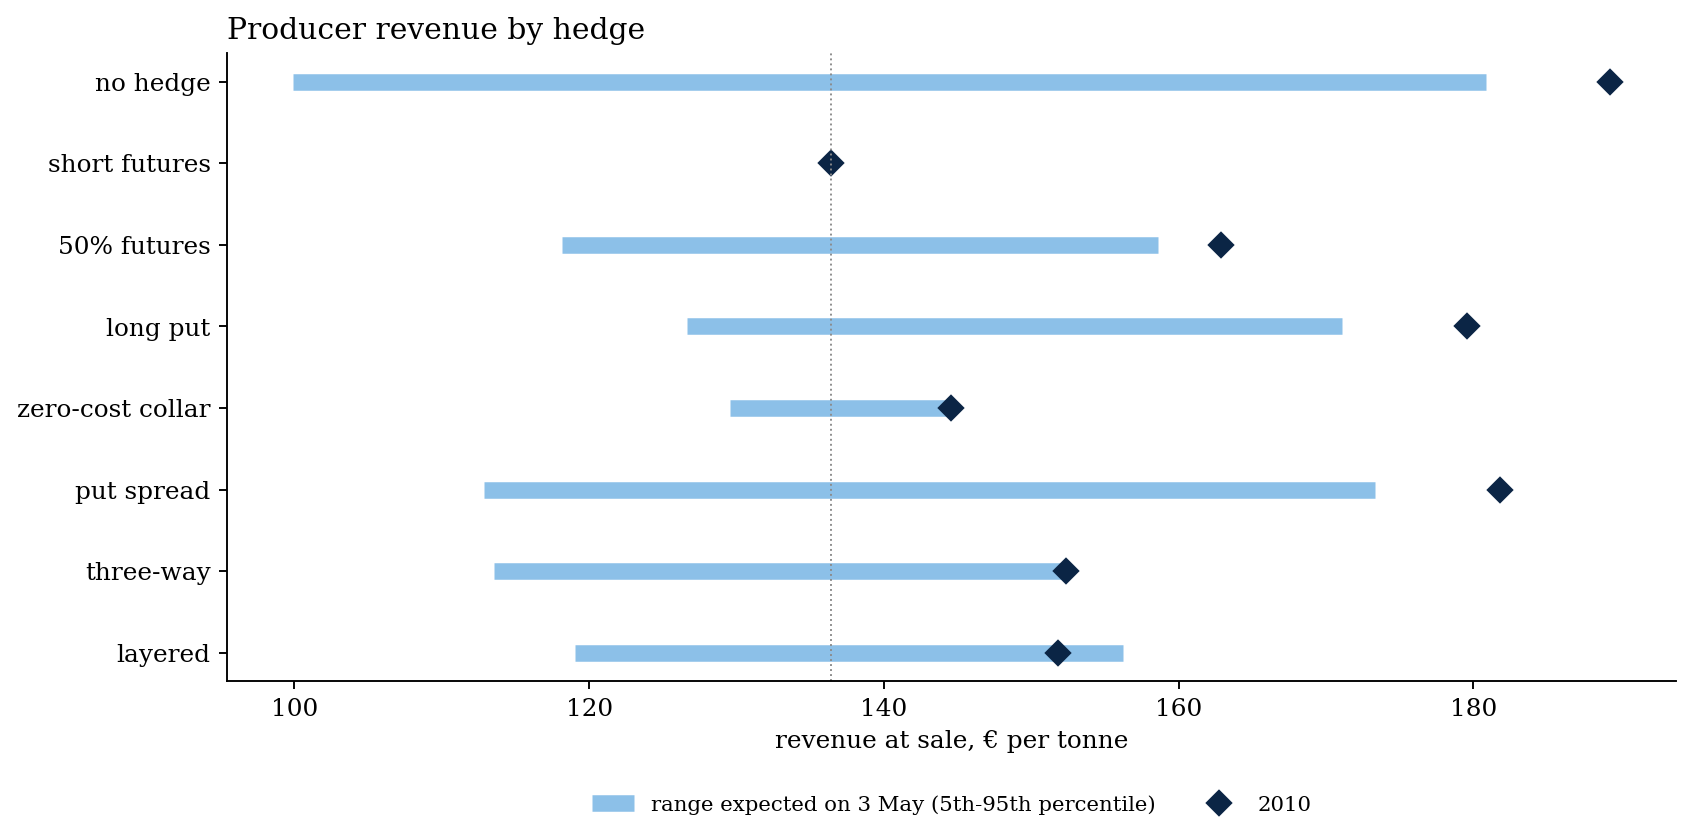
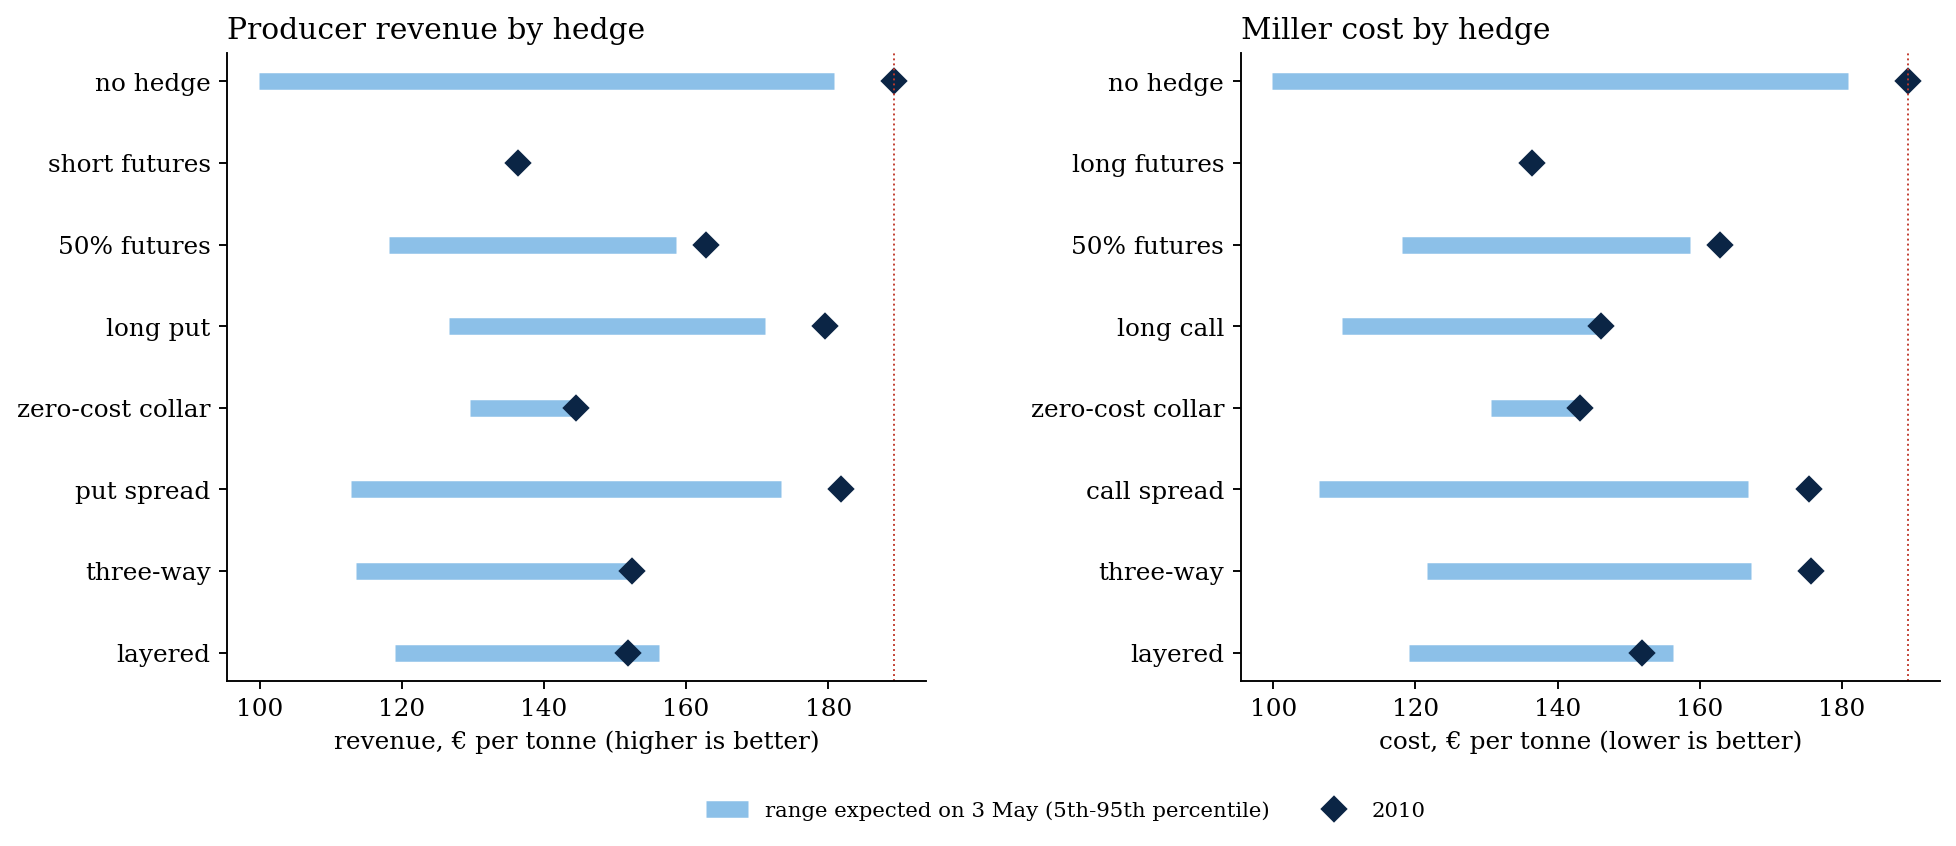
015: the miller's side of the 2010 wheat hedge beside the producer's

diff --git a/015-commodity-option-hedging/make_wheat_figures.py b/015-commodity-option-hedging/make_wheat_figures.py
@@ -1,11 +1,11 @@
 #!/usr/bin/env python3
 #-------- make_wheat_figures.py -----------------------------------------------------
-# Figures for the wheat 2010 producer hedge (wheat_2010.py):
-#   fig5_wheat_2010     CBOT wheat through 2010, with the hedge date, sale date, the
-#                       heatwave and the export ban, and the strikes set on 3 May
-#   fig6_wheat_revenue  revenue per bushel for each hedge: what 2010 gave, against the range
-#                       a producer could have expected on 3 May (5th to 95th percentile)
-#   fig7_wheat_payoffs  revenue at sale against the sale price for each hedge
+# Figures for both sides of the 2010 wheat hedge (wheat_2010.py):
+#   fig5_wheat_2010     wheat in euros per tonne through 2010, the hedge window, the heatwave
+#                       and the export ban, and the dates the layered hedge trades
+#   fig6_wheat_revenue  producer revenue and miller cost per tonne for each hedge: what 2010
+#                       gave, against the range expected on 3 May (5th to 95th percentile)
+#   fig7_wheat_payoffs  producer revenue and miller cost against the wheat price at the end
 #
 #   python make_wheat_figures.py
 
@@ -18,7 +18,7 @@ import matplotlib
 matplotlib.use("Agg")
 import matplotlib.pyplot as plt
 
-from wheat_2010 import EVENTS, LAYERS, SALE, START, revenue
+from wheat_2010 import EVENTS, LAYERS, SALE, START, cost, revenue
 
 HERE = os.path.dirname(os.path.abspath(__file__))
 RES = os.path.join(HERE, "results")
@@ -27,55 +27,58 @@ NAVY, BLUE, LIGHT, RED, GREY = "#0b2545", "#1f6fb2", "#8cc0e8", "#c0392b", "#8a8
 plt.rcParams.update({"font.family": "serif", "font.size": 10.5, "axes.spines.top": False, "axes.spines.right": False})
 
 
+def ranges(ax, real, ex, names, title, xlabel, legend):
+    y = np.arange(len(names))
+    ax.hlines(y, [ex[s]["p5"] for s in names], [ex[s]["p95"] for s in names], color=LIGHT, lw=7,
+              label="range expected on 3 May (5th-95th percentile)")
+    ax.plot([real[s] for s in names], y, "D", color=NAVY, ms=7, label="2010")
+    ax.axvline(real["no hedge"], color=RED, lw=0.8, ls=":")
+    ax.set_yticks(y, names); ax.invert_yaxis()
+    ax.set_xlabel(xlabel); ax.set_title(title, loc="left")
+    if legend:
+        ax.legend(frameon=False, fontsize=9, loc="upper center", bbox_to_anchor=(-0.25, -0.16), ncol=2)
+
+
 def main():
     o = json.load(open(os.path.join(RES, "wheat_2010.json")))
     F = pd.read_csv(os.path.join(RES, "wheat_2010_prices.csv"), index_col=0, parse_dates=True).squeeze()
-    k = o["setup"]; F0 = o["F0"]
+    F0, b = o["F0"], o["buyer"]
 
-    fig, ax = plt.subplots(figsize=(12, 4.8))
+    fig, ax = plt.subplots(figsize=(12, 4.6))
     ax.plot(F.index, F, color=NAVY, lw=1.6)
     ax.axvspan(pd.Timestamp(START), pd.Timestamp(SALE), color=LIGHT, alpha=0.18, lw=0)
     for j, (d, name) in enumerate(EVENTS.items()):
         ax.axvline(pd.Timestamp(d), color=RED, lw=1, ls="--")
         ax.text(pd.Timestamp(d), 224 - 9 * j, name + " ", color=RED, fontsize=9, ha="right")
-    for K, name, c in [(F0, "futures sold / put strike", BLUE), (0.95 * F0, "95% put", LIGHT), (0.85 * F0, "85% put", LIGHT),
-                       (k["Kc_collar"], "collar call", RED), (k["Kc_fence"], "three-way call", RED)]:
-        ax.hlines(K, pd.Timestamp(START), pd.Timestamp(SALE), color=c, lw=1, ls=":")
-        ax.text(pd.Timestamp(SALE), K, f" {name}", color=c, fontsize=8.5, va="center")
     for d in LAYERS:
         ax.plot(pd.Timestamp(d), F[:d].iloc[-1], "o", color=BLUE, ms=5)
-    ax.annotate("hedge set", (pd.Timestamp(START), F0), xytext=(-60, -30), textcoords="offset points",
+    ax.annotate("hedge set, 3 May", (pd.Timestamp(START), F0), xytext=(-95, -28), textcoords="offset points",
                 arrowprops=dict(arrowstyle="-", color=GREY), fontsize=9)
-    ax.annotate("crop sold", (pd.Timestamp(SALE), o["FT"]), xytext=(15, 20), textcoords="offset points",
+    ax.annotate("crop sold / wheat bought, 31 Aug", (pd.Timestamp(SALE), o["FT"]), xytext=(15, 22), textcoords="offset points",
                 arrowprops=dict(arrowstyle="-", color=GREY), fontsize=9)
     ax.set_ylabel("€ per tonne"); ax.set_ylim(110, 230)
     ax.set_title("Wheat, euros per tonne, 2010", loc="left")
     fig.savefig(os.path.join(FIG, "fig5_wheat_2010.png"), dpi=170, bbox_inches="tight"); plt.close(fig)
 
-    names = list(o["realised"])
-    fig, ax = plt.subplots(figsize=(11, 4.8))
-    y = np.arange(len(names))
-    lo = [o["ex_ante"][s]["p5"] for s in names]; hi = [o["ex_ante"][s]["p95"] for s in names]
-    ax.hlines(y, lo, hi, color=LIGHT, lw=7, label="range expected on 3 May (5th-95th percentile)")
-    ax.plot([o["realised"][s] for s in names], y, "D", color=NAVY, ms=7, label="2010")
-    ax.axvline(F0, color=GREY, lw=0.8, ls=":")
-    ax.set_yticks(y, names); ax.invert_yaxis()
-    ax.set_xlabel("revenue at sale, € per tonne")
-    ax.set_title("Producer revenue by hedge", loc="left"); ax.legend(frameon=False, fontsize=9, loc="upper center", bbox_to_anchor=(0.5, -0.15), ncol=2)
+    fig, axes = plt.subplots(1, 2, figsize=(13, 4.8), gridspec_kw=dict(wspace=0.45))
+    ranges(axes[0], o["realised"], o["ex_ante"], list(o["realised"]), "Producer revenue by hedge",
+           "revenue, € per tonne (higher is better)", False)
+    ranges(axes[1], b["realised"], b["ex_ante"], list(b["realised"]), "Miller cost by hedge",
+           "cost, € per tonne (lower is better)", True)
     fig.savefig(os.path.join(FIG, "fig6_wheat_revenue.png"), dpi=170, bbox_inches="tight"); plt.close(fig)
 
     FT = np.linspace(90, 200, 200)
-    rev = revenue(F0, FT, np.full_like(FT, np.mean(o["layer_prices"])), k)
-    fig, axes = plt.subplots(1, 2, figsize=(12, 4.6), sharey=True)
-    groups = [["no hedge", "short futures", "50% futures", "long put"], ["zero-cost collar", "put spread", "three-way"]]
-    cols = [GREY, NAVY, BLUE, RED, NAVY, BLUE, RED]
-    for ax, g, cset in zip(axes, groups, [cols[:4], cols[4:]]):
-        for s, c in zip(g, cset):
-            ax.plot(FT, rev[s], color=c, lw=1.8, label=s)
-        ax.axvline(o["FT"], color=RED, lw=0.8, ls="--"); ax.text(o["FT"], 92, " Aug 2010", color=RED, fontsize=8.5)
-        ax.set_xlabel("wheat price at sale, € per tonne"); ax.legend(frameon=False, fontsize=9)
-    axes[0].set_ylabel("revenue, € per tonne")
-    axes[0].set_title("Futures and puts", loc="left"); axes[1].set_title("Option structures", loc="left")
+    lay = np.full_like(FT, np.mean(o["layer_prices"]))
+    rev, cst = revenue(F0, FT, lay, o["setup"]), cost(F0, FT, lay, b["setup"])
+    fig, axes = plt.subplots(1, 2, figsize=(13, 4.8))
+    for ax, d, keys, title, ylab in [
+            (axes[0], rev, ["no hedge", "short futures", "long put", "zero-cost collar", "put spread"], "Producer", "revenue, € per tonne"),
+            (axes[1], cst, ["no hedge", "long futures", "long call", "zero-cost collar", "call spread"], "Miller", "cost, € per tonne")]:
+        for s, c, ls in zip(keys, [GREY, NAVY, RED, BLUE, LIGHT], ["-", "-", "-", "-", "--"]):
+            ax.plot(FT, d[s], color=c, lw=1.8, ls=ls, label=s)
+        ax.axvline(o["FT"], color=RED, lw=0.8, ls=":"); ax.text(o["FT"], 92, " Aug 2010", color=RED, fontsize=8.5)
+        ax.set_xlabel("wheat price at the end, € per tonne"); ax.set_ylabel(ylab)
+        ax.set_title(title, loc="left"); ax.legend(frameon=False, fontsize=9)
     fig.savefig(os.path.join(FIG, "fig7_wheat_payoffs.png"), dpi=170, bbox_inches="tight"); plt.close(fig)
     print("figures written")
 

diff --git a/015-commodity-option-hedging/wheat_2010.py b/015-commodity-option-hedging/wheat_2010.py
@@ -1,7 +1,8 @@
 #!/usr/bin/env python3
 #-------- wheat_2010.py -------------------------------------------------------------
 #-----------------------------------------------------------------------------
-# An Italian wheat producer's hedge through Russia's 2010 drought and export ban.
+# Both sides of an Italian wheat hedge through Russia's 2010 drought and export ban:
+# a producer selling its harvest, and a miller (flour and pasta) buying wheat.
 #
 # The producer: an Italian soft-wheat farm that, on 3 May 2010, hedges the harvest it will
 # sell on 31 August 2010. It would hedge on Euronext (MATIF) milling wheat, whose daily
@@ -85,6 +86,30 @@ def setup(F0, tau, s):
     return dict(P_atm=P_atm, P95=P95, P85=P85, Kc_collar=Kc_collar, Kc_fence=Kc_fence)
 
 
+def setup_buyer(F0, tau, s):
+    """The miller's mirror image: calls bought for protection, puts sold to pay for them."""
+    C_atm, C105, C115 = call(F0, F0, tau, s), call(F0, 1.05 * F0, tau, s), call(F0, 1.15 * F0, tau, s)
+    Kp_collar = brentq(lambda K: put(F0, K, tau, s) - C105, 0.3 * F0, F0)
+    Kp_fence = brentq(lambda K: put(F0, K, tau, s) - (C105 - C115), 0.3 * F0, F0)
+    return dict(C_atm=C_atm, C105=C105, C115=C115, Kp_collar=Kp_collar, Kp_fence=Kp_fence)
+
+
+def cost(F0, FT, layers, k):
+    """What the miller pays per tonne at purchase for each strategy (lower is better)."""
+    put_pay = lambda K: np.maximum(K - FT, 0)
+    call_pay = lambda K: np.maximum(FT - K, 0)
+    return {
+        "no hedge": FT,
+        "long futures": np.full_like(FT, F0),
+        "50% futures": 0.5 * F0 + 0.5 * FT,
+        "long call": FT - call_pay(F0) + k["C_atm"],
+        "zero-cost collar": FT - call_pay(1.05 * F0) + put_pay(k["Kp_collar"]),
+        "call spread": FT - call_pay(F0) + call_pay(1.15 * F0) + (k["C_atm"] - k["C115"]),
+        "three-way": FT - call_pay(1.05 * F0) + call_pay(1.15 * F0) + put_pay(k["Kp_fence"]),
+        "layered": layers,
+    }
+
+
 def revenue(F0, FT, layers, k):
     """Revenue per tonne at sale for each strategy; FT can be an array of outcomes."""
     put_pay = lambda K: np.maximum(K - FT, 0)
@@ -127,14 +152,25 @@ def main():
         ex_ante[s] = dict(mean=float(v.mean()), p5=float(np.quantile(v, 0.05)), p95=float(np.quantile(v, 0.95)),
                           cvar5=float(v[v <= np.quantile(v, 0.05)].mean()),
                           percentile_2010=float((v <= real[s]).mean()))
+    kb = setup_buyer(F0, tau, sigma)
+    real_b = {s_: float(v) for s_, v in cost(F0, np.array(FT), np.mean(layer_prices), kb).items()}
+    ex_b = {}
+    for s_, v in cost(F0, paths[:, -1], lay, kb).items():
+        v = np.asarray(v)
+        ex_b[s_] = dict(mean=float(v.mean()), p5=float(np.quantile(v, 0.05)), p95=float(np.quantile(v, 0.95)),
+                        cvar95=float(v[v >= np.quantile(v, 0.95)].mean()),
+                        saving_vs_no_hedge_2010=float(real_b["no hedge"] - real_b[s_]))
     out = dict(F0=F0, FT=FT, change=FT / F0 - 1, sigma=sigma, tau_years=tau, setup=k, layer_prices=layer_prices,
-               realised=real, ex_ante=ex_ante,
+               realised=real, ex_ante=ex_ante, buyer=dict(setup=kb, realised=real_b, ex_ante=ex_b),
                best_in_hindsight=max(real, key=real.get),
                sale_price_percentile=float((paths[:, -1] <= FT).mean()))
     json.dump(out, open(os.path.join(RES, "wheat_2010.json"), "w"), indent=1)
     F["2010-01":"2010-12"].to_csv(os.path.join(RES, "wheat_2010_prices.csv"))
     print(json.dumps({k_: out[k_] for k_ in ["F0", "FT", "change", "sigma", "setup", "realised",
                                              "best_in_hindsight", "sale_price_percentile"]}, indent=1))
+    print("buyer", json.dumps(out["buyer"]["setup"]), json.dumps({a: round(b, 1) for a, b in real_b.items()}))
+    for s_ in ex_b:
+        print(f"  {s_:18s} worst5% {ex_b[s_]['cvar95']:.1f}  saving2010 {ex_b[s_]['saving_vs_no_hedge_2010']:.1f}")
     for s in ex_ante:
         print(f"{s:18s} mean {ex_ante[s]['mean']:.2f}  5% {ex_ante[s]['p5']:.2f}  CVaR {ex_ante[s]['cvar5']:.2f}  2010 at {ex_ante[s]['percentile_2010']:.0%}")
 

diff --git a/015-commodity-option-hedging/README.md b/015-commodity-option-hedging/README.md
@@ -1,4 +1,4 @@
-# Hedging an Italian wheat harvest through Russia's 2010 export ban
+# Hedging Italian wheat through Russia's 2010 export ban: producer and miller
 
 ![Wheat in euros per tonne through 2010, with the hedge window, the heatwave, the export ban and every strike](figures/fig5_wheat_2010.png)
 
@@ -27,11 +27,11 @@ The eight hedges are the ones producers use day to day:
 | Three-way (fence) | A 95% / 85% put spread paid for by selling a call at €152. |
 | Layered | Sell a quarter of the crop forward at the start of May, June, July and August. |
 
-![Revenue at sale against the wheat price, for each hedge](figures/fig7_wheat_payoffs.png)
+![Producer revenue and miller cost against the wheat price, for each hedge](figures/fig7_wheat_payoffs.png)
 
 ## What happened
 
-![Revenue by hedge: 2010 against the range expected on 3 May](figures/fig6_wheat_revenue.png)
+![Producer revenue and miller cost by hedge: 2010 against the range expected on 3 May](figures/fig6_wheat_revenue.png)
 
 | Hedge | Revenue in 2010 (€/t) | Average of the worst 5% expected on 3 May (€/t) |
 |---|:-:|:-:|
@@ -48,6 +48,25 @@ The eight hedges are the ones producers use day to day:
 - **Of the hedges, the ones that kept the upside won.** The put spread and the long put lost only their premium. Short futures gave up the whole rally, and the collar and the three-way were capped at their call strikes.
 - **Before the event, the ranking reverses.** Judged on 3 May by the worst 5% of outcomes, short futures and the collar protected the producer best, and no hedge was the most dangerous. The put sits in between: a decent floor at a known cost, with the upside kept.
 - **So the right hedge depends on what the producer can't afford.** A farm that must cover its costs whatever happens should lock in a price; one that can stand a bad year but hates missing a rally should buy puts. In 2010 the second kind did well, but that was about a 1-in-30 outcome.
+
+## The other side: an Italian miller
+
+The same shock looks opposite to a buyer. An Italian miller (flour and pasta) that must buy wheat on 31 August can hedge on 3 May with the mirror-image tools: buy futures, buy a call, a zero-cost collar (buy a 105% call, sell a put at €131), a call spread (buy the at-the-money call, sell a 115% call), a three-way (a 105% / 115% call spread paid for by selling a put at €122), or layer its purchases.
+
+| Hedge | Cost in 2010 (€/t) | Saved against no hedge (€/t) | Average of the worst 5% expected on 3 May (€/t) |
+|---|:-:|:-:|:-:|
+| No hedge | 189 | 0 | 195 |
+| Long futures | 136 | 53 | 136 |
+| Zero-cost collar | 143 | 46 | 143 |
+| Long call | 146 | 43 | 146 |
+| Layered | 152 | 38 | 162 |
+| 50% futures | 163 | 26 | 166 |
+| Call spread | 175 | 14 | 181 |
+| Three-way | 176 | 14 | 182 |
+
+- **For the miller, hedging paid.** Buying forward saved €53 a tonne, 28% of the cost, and the collar and the call saved €43-46.
+- **The cheap structures failed in the shock.** The call spread and the three-way cut the premium by capping the protection at +15%, and the price rose 39%, so they saved only €14.
+- **One shock, two lessons.** The producer regretted hedging and the miller was saved by it. Which side of the market a firm is on decides whether a weather shock in another country is a windfall or a loss, and so which hedge it should hold.
 
 ## Before this: the option seller's side
 
@@ -67,6 +86,6 @@ Add yield risk, so the producer's revenue is price times an uncertain harvest, w
 
 ## Code
 
-`wheat_2010.py` (the producer hedge) · `make_wheat_figures.py` · `hedging.py` (Black-76 and the delta-hedging rules) · `backtest.py` · `monte_carlo.py` · `make_figures.py` · Python, NumPy, SciPy, pandas
+`wheat_2010.py` (both sides of the hedge) · `make_wheat_figures.py` · `hedging.py` (Black-76 and the delta-hedging rules) · `backtest.py` · `monte_carlo.py` · `make_figures.py` · Python, NumPy, SciPy, pandas
 
 *A side project, built for fun. Credits: Black (1976), J. Financ. Econ. 3, 167; Leland (1985), J. Finance 40, 1283; Whalley & Wilmott (1997), Math. Finance 7, 307; Hull & White (2017), J. Bank. Finance 82, 180. Prices: CBOT, COMEX and ICE futures and EUR/USD via Yahoo Finance.*
